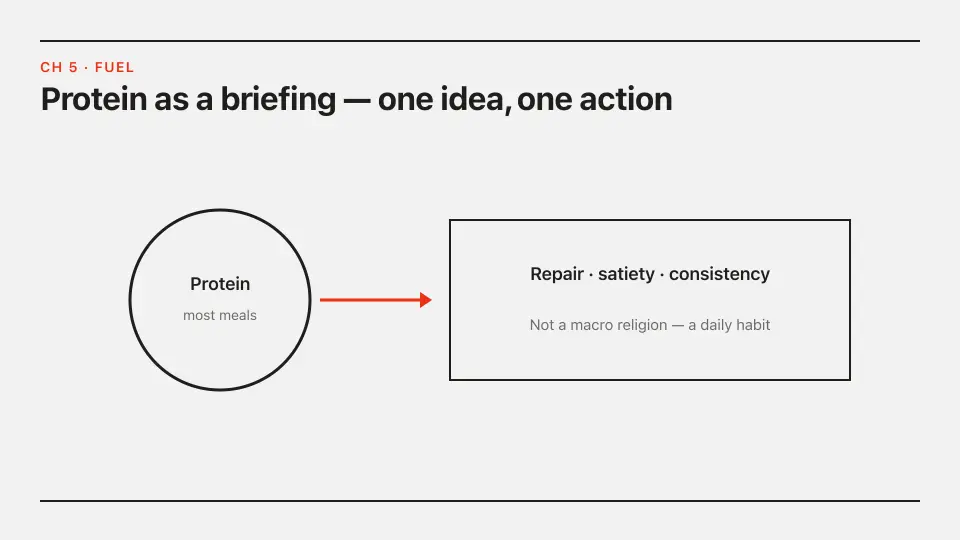
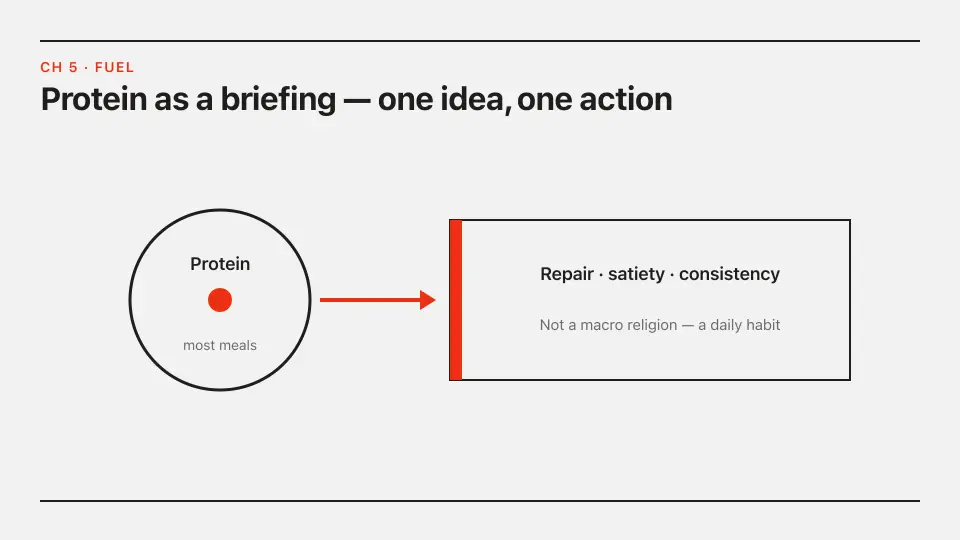
Fix guidebook hero palette discovery for section densify (.417)
heroPaths() only reads heroImage.src so densified /learn section figures
are not scored as chapter openers. Six-pillars and protein figures gain
more brand red. CI unit suite green.

diff --git a/src/lib/guidebookHeroPalette.test.ts b/src/lib/guidebookHeroPalette.test.ts
@@ -53,10 +53,14 @@ test('the hero set is discovered from the guidebook data, not listed', async () 
   assert.ok(paths.length >= 6, `discovered only ${paths.length} chapter heroes — the parser broke`);
   for (const p of paths) assert.match(p, /^\/learn\/.+\.(webp|png|avif|jpe?g)$/, p);
 
-  // Every chapter with a hero must be covered — the count is read from the same
-  // source the site renders from, so adding a chapter cannot quietly opt out.
-  const declared = [...read('src/data/guidebook/chapters.ts').matchAll(/src:\s*'\/learn\/[^']+'/g)];
-  assert.equal(new Set(declared.map((m) => m[0])).size, paths.length);
+  // Every chapter **heroImage** must be covered — not section `figure.src`
+  // paths (also under `/learn/` after the densify pass).
+  const declared = [
+    ...read('src/data/guidebook/chapters.ts').matchAll(
+      /heroImage:\s*\{[\s\S]*?src:\s*'(\/learn\/[^']+)'/g
+    ),
+  ];
+  assert.equal(new Set(declared.map((m) => m[1])).size, paths.length);
 });
 
 test('no chapter hero is off-palette except the declared debt', async () => {

diff --git a/src/lib/buildInfo.ts b/src/lib/buildInfo.ts
@@ -1,2 +1,2 @@
 /** Shown on Profile so testers can confirm the deployed build. Bump when shipping UI to master. */
-export const APP_BUILD_LABEL = '2026.07-unified.416';
+export const APP_BUILD_LABEL = '2026.07-unified.417';

diff --git a/LOG.md b/LOG.md
@@ -6,9 +6,16 @@ Chronological record of shipped work. Newest first.
 
 > **The `≤20KB` half of this rule was unmeetable and is retired.** An entry here averages ~5.6KB, because the house style is to explain the defect class rather than name the change — which is the most valuable thing in this repo and not something to trade away for a byte count. Fifteen entries is ~84KB; obeying 20KB would have meant keeping **three**. So the count rule stands, and the size rule becomes a **ratchet**: the file may shrink, never grow. If the founder wants a hard byte ceiling instead, that is a call about house style, not about this file.
 
-Archive: [2026-06 → 2026-07-20](docs/archive/log/LOG-2026-06_to_2026-07-20.md) · [2026-07-20 tail](docs/archive/log/LOG-2026-07-20_tail.md) (incl. Accelerator sprint kit rotated 2026-07-22) · [2026-07-20 → 2026-07-29 (`.179` and earlier)](docs/archive/log/LOG-2026-07-20_to_2026-07-29.md) · [2026-07-29 → 2026-07-30 (`.180`–`.199`)](docs/archive/log/LOG-2026-07-29_to_2026-07-30.md) (both rotated 2026-07-30) · [2026-07-30 → 2026-07-31 (`.200`–`.213`)](docs/archive/log/LOG-2026-07-30_to_2026-07-31.md) (rotated 2026-08-02) · [`.247` for `.263`](docs/archive/log/LOG-hero-audit-rotate-2026-08-03.md) · [`.279`](docs/archive/log/LOG-rotate-279.md) · [`.280`](docs/archive/log/LOG-rotate-280.md) · [`.281` for `.296`](docs/archive/log/LOG-rotate-296.md) · [`.282` for `.297`](docs/archive/log/LOG-rotate-297.md) · [`.283` for `.298`](docs/archive/log/LOG-rotate-298.md) · [`.284` for `.299`](docs/archive/log/LOG-rotate-299.md) · [`.285` for `.300`](docs/archive/log/LOG-rotate-300.md) · [`.286` for `.301`](docs/archive/log/LOG-rotate-301.md) · [`.287` for `.302`](docs/archive/log/LOG-rotate-302.md) · [`.288` for `.303`](docs/archive/log/LOG-rotate-303.md) · [`.289` for `.304`](docs/archive/log/LOG-rotate-304.md) · [`.290` for `.305`](docs/archive/log/LOG-rotate-305.md) · [`.291` for `.306`](docs/archive/log/LOG-rotate-306.md) · [`.292` for `.307`](docs/archive/log/LOG-rotate-307.md) · [`.293` for `.308`](docs/archive/log/LOG-rotate-308.md) · [`.294` for `.309`](docs/archive/log/LOG-rotate-309.md) · [`.295` for `.310`](docs/archive/log/LOG-rotate-310.md) · [`.296` for `.311`](docs/archive/log/LOG-rotate-311.md) · [`.297` for `.312`](docs/archive/log/LOG-rotate-312.md) · [`.298` for `.313`](docs/archive/log/LOG-rotate-313.md) · [`.299` for `.314`](docs/archive/log/LOG-rotate-314.md) · [`.300` for `.315`](docs/archive/log/LOG-rotate-315.md). · [`.301` for `.316`](docs/archive/log/LOG-rotate-316.md). · [`.302` for `.317`](docs/archive/log/LOG-rotate-317.md). · [`.303` for `.318`](docs/archive/log/LOG-rotate-318.md). · [`.304` for `.319`](docs/archive/log/LOG-rotate-319.md). · [`.305` for `.320`](docs/archive/log/LOG-rotate-320.md). · [`.306` for `.321`](docs/archive/log/LOG-rotate-321.md). · [`.307` for `.322`](docs/archive/log/LOG-rotate-322.md). · [`.308` for `.323`](docs/archive/log/LOG-rotate-323.md). · [`.309` for `.324`](docs/archive/log/LOG-rotate-324.md). · [`.310` for `.325`](docs/archive/log/LOG-rotate-325.md). · [`.311` for `.326`](docs/archive/log/LOG-rotate-326.md). · [`.312` for `.327`](docs/archive/log/LOG-rotate-327.md). · [`.313` for `.328`](docs/archive/log/LOG-rotate-328.md). · [`.314` for `.329`](docs/archive/log/LOG-rotate-329.md). · [`.315` for `.330`](docs/archive/log/LOG-rotate-330.md). · [`.316` for `.331`](docs/archive/log/LOG-rotate-331.md). · [`.317` for `.332`](docs/archive/log/LOG-rotate-332.md). · [`.318` for `.333`](docs/archive/log/LOG-rotate-333.md). · [`.319` for `.334`](docs/archive/log/LOG-rotate-334.md). · [`.320` for `.335`](docs/archive/log/LOG-rotate-335.md). · [`.321` for `.336`](docs/archive/log/LOG-rotate-336.md). · [`.322` for `.337`](docs/archive/log/LOG-rotate-337.md). · [`.323` for `.338`](docs/archive/log/LOG-rotate-338.md). · [`.324` for `.339`](docs/archive/log/LOG-rotate-339.md). · [`.325` for `.340`](docs/archive/log/LOG-rotate-340.md). · [`.326` for `.341`](docs/archive/log/LOG-rotate-341.md). · [`.327` for `.342`](docs/archive/log/LOG-rotate-342.md). · [`.328` for `.343`](docs/archive/log/LOG-rotate-343.md). · [`.329` for `.344`](docs/archive/log/LOG-rotate-344.md). · [`.330` for `.345`](docs/archive/log/LOG-rotate-345.md). · [`.331` for `.346`](docs/archive/log/LOG-rotate-346.md). · [`.332` for `.347`](docs/archive/log/LOG-rotate-347.md). · [`.333` for `.348`](docs/archive/log/LOG-rotate-348.md). · [`.334` for `.349`](docs/archive/log/LOG-rotate-349.md). · [`.335` for `.350`](docs/archive/log/LOG-rotate-350.md). · [`.336` for `.351`](docs/archive/log/LOG-rotate-351.md). · [`.337` for `.352`](docs/archive/log/LOG-rotate-352.md). · [`.338` for `.353`](docs/archive/log/LOG-rotate-353.md). · [`.339` for `.354`](docs/archive/log/LOG-rotate-354.md). · [`.340` for `.355`](docs/archive/log/LOG-rotate-355.md). · [`.341` for `.356`](docs/archive/log/LOG-rotate-356.md). · [`.342` for `.357`](docs/archive/log/LOG-rotate-357.md). · [`.343` for `.358`](docs/archive/log/LOG-rotate-358.md). · [`.344` for `.359`](docs/archive/log/LOG-rotate-359.md). · [`.345` for `.360`](docs/archive/log/LOG-rotate-360.md). · [`.346` for `.361`](docs/archive/log/LOG-rotate-361.md). · [`.347` for `.362`](docs/archive/log/LOG-rotate-362.md). · [`.348` for `.363`](docs/archive/log/LOG-rotate-363.md). · [`.349` for `.364`](docs/archive/log/LOG-rotate-364.md). · [`.350` for `.365`](docs/archive/log/LOG-rotate-365.md). · [`.351` for `.366`](docs/archive/log/LOG-rotate-366.md). · [`.352` for `.367`](docs/archive/log/LOG-rotate-367.md). · [`.353` for `.368`](docs/archive/log/LOG-rotate-368.md). · [`.354` for `.369`](docs/archive/log/LOG-rotate-369.md). · [`.355` for `.370`](docs/archive/log/LOG-rotate-370.md). · [`.356` for `.371`](docs/archive/log/LOG-rotate-371.md). · [`.357` for `.372`](docs/archive/log/LOG-rotate-372.md). · [`.358` for `.373`](docs/archive/log/LOG-rotate-373.md). · [`.359` for `.374`](docs/archive/log/LOG-rotate-374.md). · [`.360` for `.375`](docs/archive/log/LOG-rotate-375.md). · [`.361` for `.376`](docs/archive/log/LOG-rotate-376.md). · [`.362` for `.377`](docs/archive/log/LOG-rotate-377.md). · [`.363` for `.378`](docs/archive/log/LOG-rotate-378.md). · [`.364` for `.379`](docs/archive/log/LOG-rotate-379.md). · [`.365` for `.380`](docs/archive/log/LOG-rotate-380.md). · [`.366` for `.381`](docs/archive/log/LOG-rotate-381.md). · [`.367` for `.382`](docs/archive/log/LOG-rotate-382.md). · [`.368` for `.383`](docs/archive/log/LOG-rotate-383.md). · [`.369` for `.384`](docs/archive/log/LOG-rotate-384.md). · [`.370` for `.385`](docs/archive/log/LOG-rotate-385.md). · [`.371` for `.386`](docs/archive/log/LOG-rotate-386.md). · [`.372` for `.387`](docs/archive/log/LOG-rotate-387.md). · [`.373` for `.388`](docs/archive/log/LOG-rotate-388.md). · [`.374` for `.389`](docs/archive/log/LOG-rotate-389.md). · [`.375` for `.390`](docs/archive/log/LOG-rotate-390.md). · [`.376` for `.391`](docs/archive/log/LOG-rotate-391.md). · [`.377` for `.392`](docs/archive/log/LOG-rotate-392.md). · [`.378` for `.393`](docs/archive/log/LOG-rotate-393.md). · [`.379` for `.394`](docs/archive/log/LOG-rotate-394.md). · [`.380` for `.395`](docs/archive/log/LOG-rotate-395.md). · [`.381` for `.396`](docs/archive/log/LOG-rotate-396.md). · [`.382` for `.397`](docs/archive/log/LOG-rotate-397.md). · [`.383` for `.398`](docs/archive/log/LOG-rotate-398.md). · [`.384` for `.399`](docs/archive/log/LOG-rotate-399.md). · [`.385` for `.400`](docs/archive/log/LOG-rotate-400.md). · [`.386` for `.401`](docs/archive/log/LOG-rotate-401.md). · [`.387` for `.402`](docs/archive/log/LOG-rotate-402.md). · [`.388` for `.403`](docs/archive/log/LOG-rotate-403.md). · [`.389` for `.404`](docs/archive/log/LOG-rotate-404.md). · [`.390` for `.405`](docs/archive/log/LOG-rotate-405.md). · [`.391` for `.406`](docs/archive/log/LOG-rotate-406.md). · [`.392` for `.407`](docs/archive/log/LOG-rotate-407.md). · [`.393` for `.408`](docs/archive/log/LOG-rotate-408.md). · [`.394` for `.409`](docs/archive/log/LOG-rotate-409.md). · [`.395` for `.410`](docs/archive/log/LOG-rotate-410.md). · [`.396` for `.411`](docs/archive/log/LOG-rotate-411.md). · [`.397` for `.412`](docs/archive/log/LOG-rotate-412.md). · [`.398` for `.413`](docs/archive/log/LOG-rotate-413.md). · [`.399` for `.414`](docs/archive/log/LOG-rotate-414.md). · [`.400` for `.415`](docs/archive/log/LOG-rotate-415.md). · [`.401` for `.416`](docs/archive/log/LOG-rotate-416.md).
+Archive: [2026-06 → 2026-07-20](docs/archive/log/LOG-2026-06_to_2026-07-20.md) · [2026-07-20 tail](docs/archive/log/LOG-2026-07-20_tail.md) (incl. Accelerator sprint kit rotated 2026-07-22) · [2026-07-20 → 2026-07-29 (`.179` and earlier)](docs/archive/log/LOG-2026-07-20_to_2026-07-29.md) · [2026-07-29 → 2026-07-30 (`.180`–`.199`)](docs/archive/log/LOG-2026-07-29_to_2026-07-30.md) (both rotated 2026-07-30) · [2026-07-30 → 2026-07-31 (`.200`–`.213`)](docs/archive/log/LOG-2026-07-30_to_2026-07-31.md) (rotated 2026-08-02) · [`.247` for `.263`](docs/archive/log/LOG-hero-audit-rotate-2026-08-03.md) · [`.279`](docs/archive/log/LOG-rotate-279.md) · [`.280`](docs/archive/log/LOG-rotate-280.md) · [`.281` for `.296`](docs/archive/log/LOG-rotate-296.md) · [`.282` for `.297`](docs/archive/log/LOG-rotate-297.md) · [`.283` for `.298`](docs/archive/log/LOG-rotate-298.md) · [`.284` for `.299`](docs/archive/log/LOG-rotate-299.md) · [`.285` for `.300`](docs/archive/log/LOG-rotate-300.md) · [`.286` for `.301`](docs/archive/log/LOG-rotate-301.md) · [`.287` for `.302`](docs/archive/log/LOG-rotate-302.md) · [`.288` for `.303`](docs/archive/log/LOG-rotate-303.md) · [`.289` for `.304`](docs/archive/log/LOG-rotate-304.md) · [`.290` for `.305`](docs/archive/log/LOG-rotate-305.md) · [`.291` for `.306`](docs/archive/log/LOG-rotate-306.md) · [`.292` for `.307`](docs/archive/log/LOG-rotate-307.md) · [`.293` for `.308`](docs/archive/log/LOG-rotate-308.md) · [`.294` for `.309`](docs/archive/log/LOG-rotate-309.md) · [`.295` for `.310`](docs/archive/log/LOG-rotate-310.md) · [`.296` for `.311`](docs/archive/log/LOG-rotate-311.md) · [`.297` for `.312`](docs/archive/log/LOG-rotate-312.md) · [`.298` for `.313`](docs/archive/log/LOG-rotate-313.md) · [`.299` for `.314`](docs/archive/log/LOG-rotate-314.md) · [`.300` for `.315`](docs/archive/log/LOG-rotate-315.md). · [`.301` for `.316`](docs/archive/log/LOG-rotate-316.md). · [`.302` for `.317`](docs/archive/log/LOG-rotate-317.md). · [`.303` for `.318`](docs/archive/log/LOG-rotate-318.md). · [`.304` for `.319`](docs/archive/log/LOG-rotate-319.md). · [`.305` for `.320`](docs/archive/log/LOG-rotate-320.md). · [`.306` for `.321`](docs/archive/log/LOG-rotate-321.md). · [`.307` for `.322`](docs/archive/log/LOG-rotate-322.md). · [`.308` for `.323`](docs/archive/log/LOG-rotate-323.md). · [`.309` for `.324`](docs/archive/log/LOG-rotate-324.md). · [`.310` for `.325`](docs/archive/log/LOG-rotate-325.md). · [`.311` for `.326`](docs/archive/log/LOG-rotate-326.md). · [`.312` for `.327`](docs/archive/log/LOG-rotate-327.md). · [`.313` for `.328`](docs/archive/log/LOG-rotate-328.md). · [`.314` for `.329`](docs/archive/log/LOG-rotate-329.md). · [`.315` for `.330`](docs/archive/log/LOG-rotate-330.md). · [`.316` for `.331`](docs/archive/log/LOG-rotate-331.md). · [`.317` for `.332`](docs/archive/log/LOG-rotate-332.md). · [`.318` for `.333`](docs/archive/log/LOG-rotate-333.md). · [`.319` for `.334`](docs/archive/log/LOG-rotate-334.md). · [`.320` for `.335`](docs/archive/log/LOG-rotate-335.md). · [`.321` for `.336`](docs/archive/log/LOG-rotate-336.md). · [`.322` for `.337`](docs/archive/log/LOG-rotate-337.md). · [`.323` for `.338`](docs/archive/log/LOG-rotate-338.md). · [`.324` for `.339`](docs/archive/log/LOG-rotate-339.md). · [`.325` for `.340`](docs/archive/log/LOG-rotate-340.md). · [`.326` for `.341`](docs/archive/log/LOG-rotate-341.md). · [`.327` for `.342`](docs/archive/log/LOG-rotate-342.md). · [`.328` for `.343`](docs/archive/log/LOG-rotate-343.md). · [`.329` for `.344`](docs/archive/log/LOG-rotate-344.md). · [`.330` for `.345`](docs/archive/log/LOG-rotate-345.md). · [`.331` for `.346`](docs/archive/log/LOG-rotate-346.md). · [`.332` for `.347`](docs/archive/log/LOG-rotate-347.md). · [`.333` for `.348`](docs/archive/log/LOG-rotate-348.md). · [`.334` for `.349`](docs/archive/log/LOG-rotate-349.md). · [`.335` for `.350`](docs/archive/log/LOG-rotate-350.md). · [`.336` for `.351`](docs/archive/log/LOG-rotate-351.md). · [`.337` for `.352`](docs/archive/log/LOG-rotate-352.md). · [`.338` for `.353`](docs/archive/log/LOG-rotate-353.md). · [`.339` for `.354`](docs/archive/log/LOG-rotate-354.md). · [`.340` for `.355`](docs/archive/log/LOG-rotate-355.md). · [`.341` for `.356`](docs/archive/log/LOG-rotate-356.md). · [`.342` for `.357`](docs/archive/log/LOG-rotate-357.md). · [`.343` for `.358`](docs/archive/log/LOG-rotate-358.md). · [`.344` for `.359`](docs/archive/log/LOG-rotate-359.md). · [`.345` for `.360`](docs/archive/log/LOG-rotate-360.md). · [`.346` for `.361`](docs/archive/log/LOG-rotate-361.md). · [`.347` for `.362`](docs/archive/log/LOG-rotate-362.md). · [`.348` for `.363`](docs/archive/log/LOG-rotate-363.md). · [`.349` for `.364`](docs/archive/log/LOG-rotate-364.md). · [`.350` for `.365`](docs/archive/log/LOG-rotate-365.md). · [`.351` for `.366`](docs/archive/log/LOG-rotate-366.md). · [`.352` for `.367`](docs/archive/log/LOG-rotate-367.md). · [`.353` for `.368`](docs/archive/log/LOG-rotate-368.md). · [`.354` for `.369`](docs/archive/log/LOG-rotate-369.md). · [`.355` for `.370`](docs/archive/log/LOG-rotate-370.md). · [`.356` for `.371`](docs/archive/log/LOG-rotate-371.md). · [`.357` for `.372`](docs/archive/log/LOG-rotate-372.md). · [`.358` for `.373`](docs/archive/log/LOG-rotate-373.md). · [`.359` for `.374`](docs/archive/log/LOG-rotate-374.md). · [`.360` for `.375`](docs/archive/log/LOG-rotate-375.md). · [`.361` for `.376`](docs/archive/log/LOG-rotate-376.md). · [`.362` for `.377`](docs/archive/log/LOG-rotate-377.md). · [`.363` for `.378`](docs/archive/log/LOG-rotate-378.md). · [`.364` for `.379`](docs/archive/log/LOG-rotate-379.md). · [`.365` for `.380`](docs/archive/log/LOG-rotate-380.md). · [`.366` for `.381`](docs/archive/log/LOG-rotate-381.md). · [`.367` for `.382`](docs/archive/log/LOG-rotate-382.md). · [`.368` for `.383`](docs/archive/log/LOG-rotate-383.md). · [`.369` for `.384`](docs/archive/log/LOG-rotate-384.md). · [`.370` for `.385`](docs/archive/log/LOG-rotate-385.md). · [`.371` for `.386`](docs/archive/log/LOG-rotate-386.md). · [`.372` for `.387`](docs/archive/log/LOG-rotate-387.md). · [`.373` for `.388`](docs/archive/log/LOG-rotate-388.md). · [`.374` for `.389`](docs/archive/log/LOG-rotate-389.md). · [`.375` for `.390`](docs/archive/log/LOG-rotate-390.md). · [`.376` for `.391`](docs/archive/log/LOG-rotate-391.md). · [`.377` for `.392`](docs/archive/log/LOG-rotate-392.md). · [`.378` for `.393`](docs/archive/log/LOG-rotate-393.md). · [`.379` for `.394`](docs/archive/log/LOG-rotate-394.md). · [`.380` for `.395`](docs/archive/log/LOG-rotate-395.md). · [`.381` for `.396`](docs/archive/log/LOG-rotate-396.md). · [`.382` for `.397`](docs/archive/log/LOG-rotate-397.md). · [`.383` for `.398`](docs/archive/log/LOG-rotate-398.md). · [`.384` for `.399`](docs/archive/log/LOG-rotate-399.md). · [`.385` for `.400`](docs/archive/log/LOG-rotate-400.md). · [`.386` for `.401`](docs/archive/log/LOG-rotate-401.md). · [`.387` for `.402`](docs/archive/log/LOG-rotate-402.md). · [`.388` for `.403`](docs/archive/log/LOG-rotate-403.md). · [`.389` for `.404`](docs/archive/log/LOG-rotate-404.md). · [`.390` for `.405`](docs/archive/log/LOG-rotate-405.md). · [`.391` for `.406`](docs/archive/log/LOG-rotate-406.md). · [`.392` for `.407`](docs/archive/log/LOG-rotate-407.md). · [`.393` for `.408`](docs/archive/log/LOG-rotate-408.md). · [`.394` for `.409`](docs/archive/log/LOG-rotate-409.md). · [`.395` for `.410`](docs/archive/log/LOG-rotate-410.md). · [`.396` for `.411`](docs/archive/log/LOG-rotate-411.md). · [`.397` for `.412`](docs/archive/log/LOG-rotate-412.md). · [`.398` for `.413`](docs/archive/log/LOG-rotate-413.md). · [`.399` for `.414`](docs/archive/log/LOG-rotate-414.md). · [`.400` for `.415`](docs/archive/log/LOG-rotate-415.md). · [`.401` for `.416`](docs/archive/log/LOG-rotate-416.md). · [`.402` for `.417`](docs/archive/log/LOG-rotate-417.md).
 
 ---
+
+## 2026-08-04 — Guidebook hero palette discovery scope (`.417`)
+
+`heroPaths()` only reads `heroImage.src` under `/learn/`, not every section
+`figure` path densified in `.414`. Section art stays free to teach without
+being scored as chapter openers; six-pillars + protein figures got more brand
+red for craft quality.
 
 ## 2026-08-04 — Scout modernist re-ink + magazine PDF densify (`.416`)
 
@@ -101,8 +108,4 @@ evenings keep coach session above the fold. Wiring guards on lean/full Today.
 ## 2026-08-04 — Pack exercisePickerList for coverage (`.403`)
 
 Seeded axe on ExercisePicker added `t('exercisePickerList')` for the listbox name but never put the key in [`libraryLocales.ts`](src/i18n/libraryLocales.ts). Coverage hit **17 / cap 16** (Bundle keys stay intentionally uncovered under free-first). Added `exercisePickerList: 'Exercise matches'`. Coverage OK at 16/16.
-
-## 2026-08-04 — Drop colliding learnExpanded pack keys (`.402`)
-
-`.401` filled beachhead packs including `learnExpandedBanner` / `learnExpandedDesc` — keys that already mean something else in `guidebookLocales` (same `.178` class as the recorded `fuelTitle` collisions). `localeFootprint.test.ts` caught pack vs `public/locales` drift. Dropped those two keys from `es`/`fr`/`pt` packs; learn beachhead stays at ~32% placeholders. No `export-locales` (would re-surface the dual-namespace EN conflict into public files).
 

diff --git a/CONTEXT.md b/CONTEXT.md
@@ -16,7 +16,7 @@ One screen of truth for any AI tool or human joining cold. Read this, then [AGEN
 
 ---
 
-## Now (2026-08-04 · web `2026.07-unified.416` · Android `1.24.1`)
+## Now (2026-08-04 · web `2026.07-unified.417` · Android `1.24.1`)
 
 > The ONLY "where we are" block in the repo — [ORCHESTRATION.md](ORCHESTRATION.md) points here.
 >
@@ -175,6 +175,7 @@ One screen of truth for any AI tool or human joining cold. Read this, then [AGEN
 > and `.414` dropped `.399` detail (full text remains in LOG.md / archive)
 > and `.415` dropped `.400` detail (full text remains in LOG.md / archive)
 > and `.416` dropped `.401` detail (full text remains in LOG.md / archive)
+> and `.417` dropped `.402` detail (full text remains in LOG.md / archive)
 > to [CONTEXT-now-2026-07-30.md](docs/archive/CONTEXT-now-2026-07-30.md) after this
 > block reached **79 bullets / 103KB**. A status doc that only grows stops being read.
 
@@ -195,6 +196,7 @@ One screen of truth for any AI tool or human joining cold. Read this, then [AGEN
 > | Migrations | **9 recorded pending** — [LAUNCH_RUNBOOK](docs/LAUNCH_RUNBOOK.md) §3, enforced by `src/lib/migrationLedger.test.ts`. |
 > | gitleaks | **green — and scanning for the first time.** It had never scanned anything: on a `pull_request` event the action lists the PR's commits, the job declared no `permissions:` block, and it 403'd (`pull_requests=read`) before opening a file. Fixed by a `permissions:` block (`.224` carrying `.255`). It scans **only the PR's own commits**, so commit `8ea3527a`'s real Solana treasury address — scrubbed from the working file, still in history — is out of its scope. That finding stands, deliberately not allowlisted; it was never what made this check red. |
 
+- **`.417`:** Hero palette discovery **scope** — section figures ≠ chapter heroes.
 - **`.416`:** Scout **modernist re-ink** + densified magazine PDF (~27p).
 - **`.415`:** Pattern packs + Learn **18/18** figures + social WebP.
 - **`.414`:** Form media **T1** (52/52 diagrams) + **Learn section densify** (8 figures).
@@ -209,7 +211,6 @@ One screen of truth for any AI tool or human joining cold. Read this, then [AGEN
 - **`.405`:** Active **session finish extract** — `logSetIsPr` / `planLogSetRest` / `assembleActiveVictory` + wiring guards (T2.1).
 - **`.404`:** Week-1 activation **contract** after composure — session2 First Steps + CTA + Mission Score priority 32 locked by tests (`.291`+`.294` regression net).
 - **`.403`:** Pack `exercisePickerList` — coverage back at cap 16.
-- **`.402`:** Drop colliding learnExpanded* pack keys (guidebook `.178`); footprint + parity green.
 - **Horizon W — wedge excellence.** Web craft 1–6 + **Fuel estimate accuracy** (edit-before-log, better NL match, honest photo sources).
 - **Free-first beta (~4 weeks):** LLC + EIN pending — **no Bundle UI** + **full depth unlocked** + **full More nav** (journey train-only deferred) ([docs/FREE_BETA.md](docs/FREE_BETA.md)).
 - **`e2e:visual` is the one dark gate.** Its three baselines were generated **2026-07-22, before the rebrand**, and depicted the old navy/emerald dark design — black grounds, emerald CTAs, rounded corners. Verified by opening one, not inferred from dates. **Deleted**, because a known-wrong baseline is worse than none: the first Linux run would have shown four huge diffs, and the reflex there is `--update-snapshots` without looking, which launders whatever renders that day into truth. `home-reduced.png` **never had a baseline at all**, so the homepage has been silently self-approving since the case was written. **First Linux CI run after billing clears must bootstrap all four** (`npx playwright test --grep @visual --update-snapshots`, then commit the artifact) — it cannot be done on macOS, the pixels will not match.

diff --git a/docs/archive/INDEX.md b/docs/archive/INDEX.md
@@ -65,6 +65,7 @@ When adding a doc:
 | [log/LOG-rotate-414.md](./log/LOG-rotate-414.md) | `.399` FileUploadRow chrome — rotated for `.414` form media T1 |
 | [log/LOG-rotate-415.md](./log/LOG-rotate-415.md) | `.400` opacity exemptions — rotated for `.415` pattern packs |
 | [log/LOG-rotate-416.md](./log/LOG-rotate-416.md) | `.401` beachhead i18n — rotated for `.416` Scout + PDF |
+| [log/LOG-rotate-417.md](./log/LOG-rotate-417.md) | `.402` pack keys — rotated for `.417` hero palette scope |
 | [log/LOG-rotate-406.md](./log/LOG-rotate-406.md) | rotated for .406 Active check-in |
 | [log/LOG-rotate-405.md](./log/LOG-rotate-405.md) | rotated for .405 Active finish extract |
 | [log/LOG-rotate-404.md](./log/LOG-rotate-404.md) | rotated for .404 week-1 activation contract |

diff --git a/docs/archive/log/LOG-rotate-417.md b/docs/archive/log/LOG-rotate-417.md
@@ -1,0 +1,5 @@
+# Rotated from LOG.md for .417
+
+## 2026-08-04 — Drop colliding learnExpanded pack keys (`.402`)
+
+`.401` filled beachhead packs including `learnExpandedBanner` / `learnExpandedDesc` — keys that already mean something else in `guidebookLocales` (same `.178` class as the recorded `fuelTitle` collisions). `localeFootprint.test.ts` caught pack vs `public/locales` drift. Dropped those two keys from `es`/`fr`/`pt` packs; learn beachhead stays at ~32% placeholders. No `export-locales` (would re-surface the dual-namespace EN conflict into public files).
